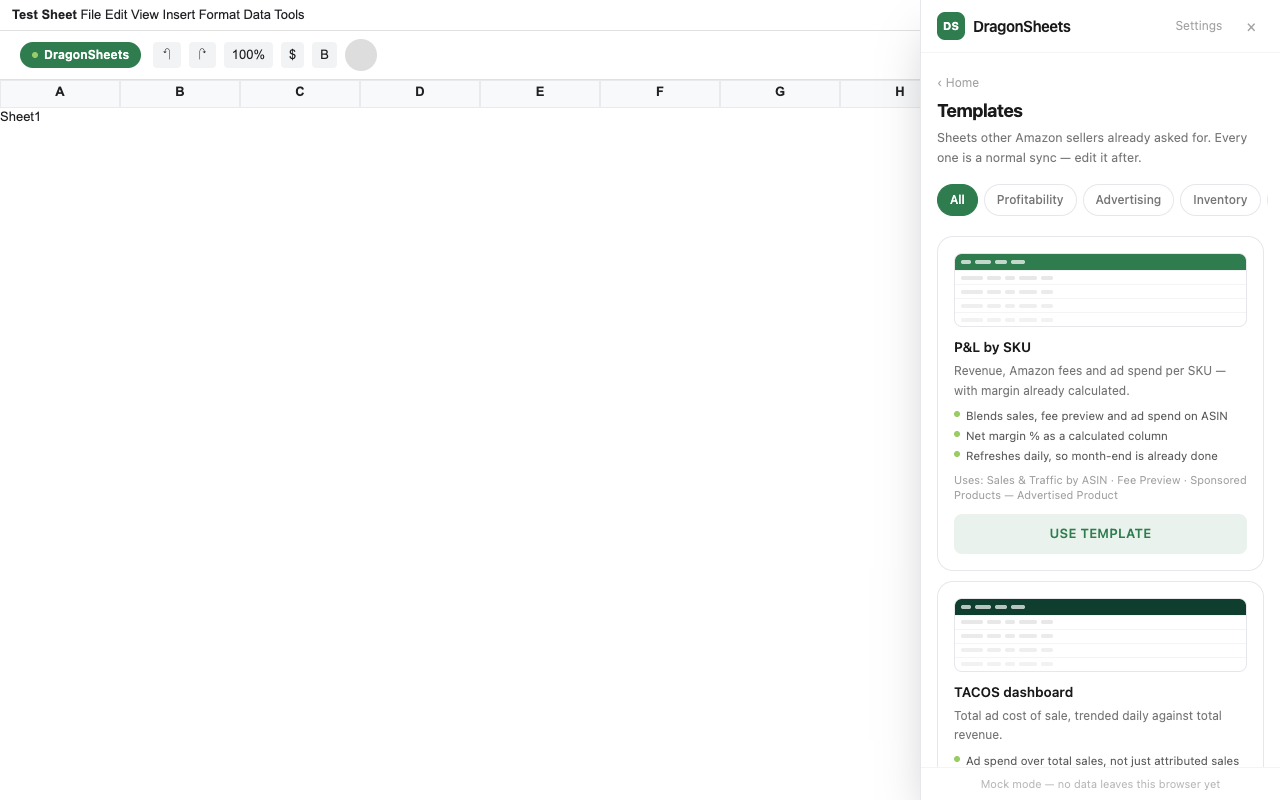
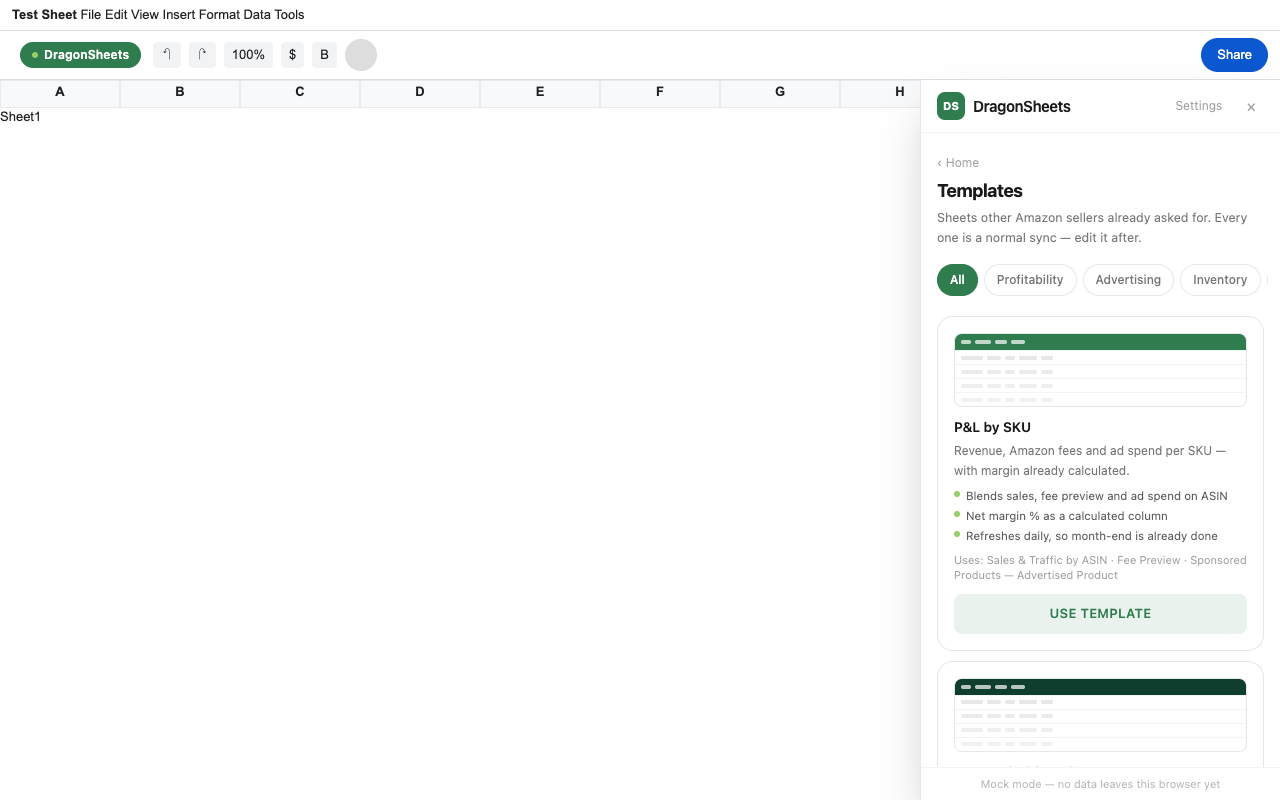
sidebar: sit below Google's chrome, and gate on sharing at open
Two bugs, one file, because they are the same story: the panel was in the
way of the thing it was asking for, and there was no way back to it.

Bug 3 — the host was mounted at top:0 with h-screen, so the panel laid
itself over Sheets' title bar and toolbar. That includes the Share button
the onboarding screen tells the user to click: the panel was covering its
own instructions. content/top-offset.ts measures the bottom of Google's
chrome from the selectors we already own, publishes it as --ds-top-offset
on the shadow host (custom properties inherit through the boundary, so no
React re-render per resize tick), and keeps it current with a resize
listener plus a ResizeObserver on each bar. Both bars are measured and the
lower edge wins: their nesting is not stable, and Math.max is right either
way — which also keeps our own launcher pill uncovered. Found-but-zero
means full-screen mode and yields 0; only a total miss falls back to 56px,
and everything is clamped so one bad rect can't eat the panel.

Bug 4 — the user X'ed out of the share step and could not get back to it.
Sharing is now a gate evaluated every time the panel opens, not a step
passed once: an unshared spreadsheet lands on the share screen whatever
route was stored, because every screen behind it is decoration when
nothing can be written. It runs once per open and only redirects if the
user is still on the screen they opened onto — the check is a round trip,
[…]

diff --git a/src/app/App.tsx b/src/app/App.tsx
@@ -9,6 +9,7 @@ import { getBackend, getBackendMode } from "../backend";
 import type { Session } from "../backend/types";
 import { sidebarStore } from "../content/sidebar-store";
 import { getSpreadsheetId, type SelectorMap } from "../content/selector-map";
+import { TOP_OFFSET_VAR } from "../content/top-offset";
 import {
   readRouteFromUrl,
   sameRoute,
@@ -16,7 +17,10 @@ import {
   writeRouteToUrl,
   type Route,
   type RouteLike,
+  type RouteName,
 } from "./router";
+import { checkAccess } from "../backend/sheet-access";
+import { logDiag } from "../lib/diagnostics";
 import { Welcome } from "./routes/Welcome";
 import { ShareSpreadsheet } from "./routes/ShareSpreadsheet";
 import { OnboardingCompleted } from "./routes/OnboardingCompleted";
@@ -33,6 +37,27 @@ import { Spinner } from "../ui/Spinner";
 const MIN_WIDTH = 320;
 const MAX_WIDTH = 560;
 const DEFAULT_WIDTH = 360;
+
+/**
+ * Screens the sharing gate leaves alone.
+ *
+ *  - `welcome` — you cannot share a sheet with an account you haven't signed
+ *    into yet.
+ *  - `share-spreadsheet` — the destination; redirecting to it from itself
+ *    would just churn history.
+ *  - `settings` — the way OUT. Sign-out and the Google tab live there, and a
+ *    gate that can lock someone out of Settings is a gate that can lock them
+ *    out of the product.
+ *
+ * Everything else — including a `dsr=` deep link — is gated. The deep-link
+ * router itself is untouched: the URL is parsed exactly as before, and this
+ * only changes which route wins afterwards.
+ */
+const GATE_EXEMPT: ReadonlySet<RouteName> = new Set<RouteName>([
+  "welcome",
+  "share-spreadsheet",
+  "settings",
+]);
 
 export interface AppContext {
   /** Push a route (adds a browser history entry). */
@@ -152,6 +177,48 @@ export function SidebarApp({ selectors }: { selectors: SelectorMap }) {
     setRoute(toRoute(session ? "home" : "welcome"));
   }, [open, booted, route, session]);
 
+  // ── the sharing gate ─────────────────────────────────────────────────────
+  //
+  // A spreadsheet that isn't shared with the service account cannot be written
+  // to, so every screen behind this one is decoration. It runs on OPEN rather
+  // than once during onboarding, because the bug it fixes is exactly that: the
+  // user X'ed out of the share step and had no way back to it.
+  //
+  // It runs once per open, and only redirects if the user is still on the
+  // screen they opened onto — the check is a round trip, and yanking someone
+  // out of a screen they navigated to in the meantime would be its own bug.
+  //
+  // Caching lives in backend/sheet-access.ts: grants are memoised for a few
+  // minutes so toggling the pill isn't a network call, denials never are, so
+  // sharing the sheet and coming back always works.
+  const routeRef = useRef<Route | null>(route);
+  routeRef.current = route;
+  const gatedFor = useRef<string | null>(null);
+  useEffect(() => {
+    if (!open || !booted || !session) {
+      if (!open) gatedFor.current = null;
+      return;
+    }
+    const key = `${session.userId}|${spreadsheetId}`;
+    if (gatedFor.current === key) return;
+    gatedFor.current = key;
+    void (async () => {
+      try {
+        const res = await checkAccess(spreadsheetId);
+        if (res.granted) return;
+        if (!sidebarStore.isOpen()) return;
+        const current = routeRef.current;
+        if (current && GATE_EXEMPT.has(current.name)) return;
+        navigate("share-spreadsheet");
+      } catch (err) {
+        // A transient failure must not strand the user on the share screen
+        // with an address they can't verify. Log it and let the normal route
+        // stand; the next open re-checks.
+        logDiag("sheet-access-gate-failed", { error: String(err) });
+      }
+    })();
+  }, [open, booted, session, spreadsheetId, navigate]);
+
   // Drag-to-resize.
   const onDragStart = useCallback(
     (e: React.PointerEvent<HTMLDivElement>) => {
@@ -189,8 +256,18 @@ export function SidebarApp({ selectors }: { selectors: SelectorMap }) {
 
   return (
     <div
-      className="fixed right-0 top-0 flex h-screen flex-col border-l border-gray-200 bg-white font-sans text-ink shadow-2xl"
-      style={{ width }}
+      className="fixed right-0 flex flex-col border-l border-gray-200 bg-white font-sans text-ink shadow-2xl"
+      // Not `top-0 h-screen`: that laid the panel over Google's title bar and
+      // toolbar, hiding the Share button this product's own onboarding tells
+      // the user to click. `--ds-top-offset` is measured from Google's chrome
+      // and kept current by content/top-offset.ts; the 0px fallback means a
+      // missing var degrades to the old full-height panel rather than to a
+      // zero-height one.
+      style={{
+        width,
+        top: `var(${TOP_OFFSET_VAR}, 0px)`,
+        height: `calc(100vh - var(${TOP_OFFSET_VAR}, 0px))`,
+      }}
     >
       {/* resize handle */}
       <div
@@ -222,7 +299,10 @@ export function SidebarApp({ selectors }: { selectors: SelectorMap }) {
         </button>
       </div>
       {/* body */}
-      <div ref={bodyRef} className="flex flex-1 flex-col overflow-y-auto px-4 py-4">
+      {/* `min-h-0` so the scroll container actually clips: a flex child
+          defaults to min-height:auto and would otherwise grow past the
+          panel's now-shorter height instead of scrolling inside it. */}
+      <div ref={bodyRef} className="flex min-h-0 flex-1 flex-col overflow-y-auto px-4 py-4">
         {!booted || !route ? (
           <div className="flex h-full items-center justify-center">
             <Spinner size={22} />

diff --git a/src/content/top-offset.ts b/src/content/top-offset.ts
@@ -1,0 +1,110 @@
+/**
+ * Where the sidebar's top edge goes.
+ *
+ * The panel used to be `top:0; height:100vh`, which laid it straight over
+ * Google's title bar and toolbar — including the **Share** button, which is
+ * the one control the onboarding screen tells the user to click. The panel was
+ * covering the thing it was asking for.
+ *
+ * So the offset is measured, not hardcoded: the bottom of Google's own chrome,
+ * taken from the selectors we already own (`SelectorMap`), recomputed whenever
+ * it can move. Hardcoding would break the moment Google adds a row, and break
+ * silently — the failure mode is a covered button, which nobody reports as a
+ * bug, they just give up.
+ *
+ * Both bars are measured and the LOWER edge wins, because their nesting is not
+ * stable: in the live DOM `#docs-toolbar` sits inside `#docs-bars`, and taking
+ * `#docs-bars` alone is right; in a DOM where they are siblings, taking
+ * `#docs-bars` alone would leave the panel over the toolbar — where our own
+ * launcher pill lives. `Math.max` is correct in both.
+ */
+import { logDiag } from "../lib/diagnostics";
+import { waitFor, type SelectorMap } from "./selector-map";
+
+/** The CSS custom property the panel reads. Set on the shadow host, which
+ * inherits into the shadow tree. */
+export const TOP_OFFSET_VAR = "--ds-top-offset";
+
+/** Used only when NO bar can be found at all — roughly Sheets' title row. */
+export const FALLBACK_TOP_OFFSET = 56;
+
+/** A measurement past this is a broken DOM, not a tall toolbar. Clamping stops
+ * one bad rect from eating the whole panel. */
+export const MAX_TOP_OFFSET = 240;
+
+export function clampTopOffset(value: number, fallback = FALLBACK_TOP_OFFSET): number {
+  if (!Number.isFinite(value)) return fallback;
+  return Math.max(0, Math.min(MAX_TOP_OFFSET, Math.round(value)));
+}
+
+/**
+ * The bottom edge of Google's chrome, in CSS pixels from the top of the
+ * viewport. A found-but-zero-height bar means Sheets is in full-screen mode
+ * and 0 is the right answer — which is why "found" and "missing" are
+ * distinguished rather than both falling back to 56.
+ */
+export function measureTopOffset(selectors: SelectorMap, doc: Document = document): number {
+  let found = false;
+  let bottom = 0;
+  for (const selector of [selectors.docsBars, selectors.docsToolbar]) {
+    let el: Element | null = null;
+    try {
+      el = doc.querySelector(selector);
+    } catch {
+      el = null;
+    }
+    if (!el) continue;
+    found = true;
+    bottom = Math.max(bottom, el.getBoundingClientRect().bottom);
+  }
+  return found ? clampTopOffset(bottom, 0) : FALLBACK_TOP_OFFSET;
+}
+
+/**
+ * Keep `--ds-top-offset` on `host` in step with the page. Returns a teardown.
+ *
+ * Recomputed on resize and, where available, whenever either bar's own box
+ * changes — Sheets grows a second toolbar row for a chart selection, and the
+ * panel has to follow it down rather than sit under it.
+ */
+export function installTopOffset(host: HTMLElement, selectors: SelectorMap): () => void {
+  let last = -1;
+  const apply = (): void => {
+    const next = measureTopOffset(selectors);
+    if (next === last) return;
+    last = next;
+    host.style.setProperty(TOP_OFFSET_VAR, `${next}px`);
+  };
+  apply();
+  logDiag("top-offset-installed", { offset: last });
+
+  window.addEventListener("resize", apply, { passive: true });
+
+  const observers: ResizeObserver[] = [];
+  const observe = (el: Element): void => {
+    if (typeof ResizeObserver !== "function") return;
+    const ro = new ResizeObserver(apply);
+    ro.observe(el);
+    observers.push(ro);
+  };
+
+  for (const selector of [selectors.docsBars, selectors.docsToolbar]) {
+    const el = document.querySelector(selector);
+    if (el) {
+      observe(el);
+      continue;
+    }
+    // Google's chrome can render after we mount. Pick it up when it lands
+    // rather than living with the fallback for the rest of the session.
+    void waitFor(selector, 30_000).then((late) => {
+      if (!late) return;
+      apply();
+      observe(late);
+    });
+  }
+
+  return () => {
+    window.removeEventListener("resize", apply);
+    for (const ro of observers) ro.disconnect();
+  };
+}

diff --git a/src/content/mount.tsx b/src/content/mount.tsx
@@ -12,6 +12,7 @@ import { createRoot } from "react-dom/client";
 import { SidebarApp } from "../app/App";
 import { logDiag } from "../lib/diagnostics";
 import type { SelectorMap } from "./selector-map";
+import { installTopOffset } from "./top-offset";
 import tailwindCss from "../app/styles.css?inline";
 
 const HOST_ID = "dragonsheets-host";
@@ -25,6 +26,11 @@ export function mountSidebar(selectors: SelectorMap): void {
   // root positions itself fixed against the viewport.
   host.setAttribute("style", "position:fixed;top:0;right:0;width:0;height:0;z-index:2147483001;");
   document.body.appendChild(host);
+
+  // Custom properties inherit through the shadow boundary, so measuring
+  // Google's chrome out here and reading it inside App.tsx needs no plumbing
+  // — and no React re-render on every resize tick.
+  installTopOffset(host, selectors);
 
   const shadow = host.attachShadow({ mode: "open" });
 
